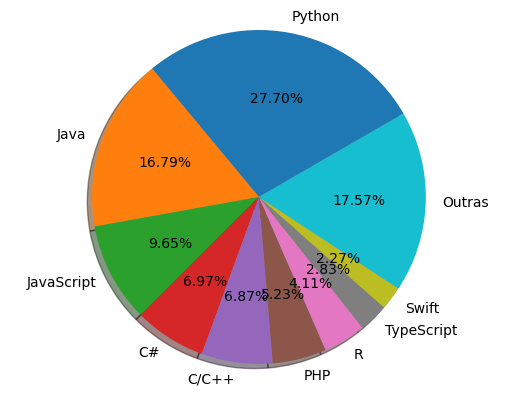
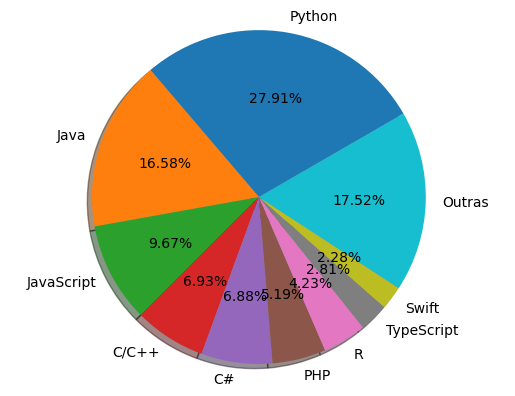
Build site at 2023-03-02 06:00:07 UTC

diff --git a/docs/popularidade/index.html b/docs/popularidade/index.html
@@ -35,7 +35,7 @@
 <meta name="twitter:card" content="summary" />
 <meta property="twitter:title" content="Introdução: python é popular!" />
 <script type="application/ld+json">
-{"@context":"https://schema.org","@type":"WebPage","author":{"@type":"Person","name":"Luiz T. F. Eleno"},"dateModified":"2022-08-02T03:00:03-03:00","description":"Computação Científica em Python - uma disciplina do curso de Engenharia Física da Escola de Engenharia de Lorena da Universidade de São Paulo - EEL USP","headline":"Introdução: python é popular!","url":"https://computeel.org/LOM3260/popularidade/"}</script>
+{"@context":"https://schema.org","@type":"WebPage","author":{"@type":"Person","name":"Luiz T. F. Eleno"},"dateModified":"2023-02-02T03:00:07-03:00","description":"Computação Científica em Python - uma disciplina do curso de Engenharia Física da Escola de Engenharia de Lorena da Universidade de São Paulo - EEL USP","headline":"Introdução: python é popular!","url":"https://computeel.org/LOM3260/popularidade/"}</script>
 <!-- End Jekyll SEO tag -->
 
   
@@ -1415,110 +1415,110 @@
     <tr>
       <td style="text-align: center">1</td>
       <td style="text-align: left">Python</td>
-      <td style="text-align: center">27.7</td>
-      <td style="text-align: center">-0.7</td>
+      <td style="text-align: center">27.91</td>
+      <td style="text-align: center">-0.6</td>
     </tr>
     <tr>
       <td style="text-align: center">2</td>
       <td style="text-align: left">Java</td>
-      <td style="text-align: center">16.79</td>
-      <td style="text-align: center">-1.3</td>
+      <td style="text-align: center">16.58</td>
+      <td style="text-align: center">-1.6</td>
     </tr>
     <tr>
       <td style="text-align: center">3</td>
       <td style="text-align: left">JavaScript</td>
-      <td style="text-align: center">9.65</td>
+      <td style="text-align: center">9.67</td>
       <td style="text-align: center">+0.6</td>
     </tr>
     <tr>
       <td style="text-align: center">4</td>
-      <td style="text-align: left">C#</td>
-      <td style="text-align: center">6.97</td>
+      <td style="text-align: left">C/C++</td>
+      <td style="text-align: center">6.93</td>
       <td style="text-align: center">-0.5</td>
     </tr>
     <tr>
       <td style="text-align: center">5</td>
-      <td style="text-align: left">C/C++</td>
-      <td style="text-align: center">6.87</td>
-      <td style="text-align: center">-0.6</td>
+      <td style="text-align: left">C#</td>
+      <td style="text-align: center">6.88</td>
+      <td style="text-align: center">-0.5</td>
     </tr>
     <tr>
       <td style="text-align: center">6</td>
       <td style="text-align: left">PHP</td>
-      <td style="text-align: center">5.23</td>
-      <td style="text-align: center">-0.8</td>
+      <td style="text-align: center">5.19</td>
+      <td style="text-align: center">-0.6</td>
     </tr>
     <tr>
       <td style="text-align: center">7</td>
       <td style="text-align: left">R</td>
-      <td style="text-align: center">4.11</td>
-      <td style="text-align: center">-0.1</td>
+      <td style="text-align: center">4.23</td>
+      <td style="text-align: center">-0.2</td>
     </tr>
     <tr>
       <td style="text-align: center">8</td>
       <td style="text-align: left">TypeScript</td>
-      <td style="text-align: center">2.83</td>
-      <td style="text-align: center">+0.8</td>
+      <td style="text-align: center">2.81</td>
+      <td style="text-align: center">+0.6</td>
     </tr>
     <tr>
       <td style="text-align: center">9</td>
       <td style="text-align: left">Swift</td>
-      <td style="text-align: center">2.27</td>
-      <td style="text-align: center">+0.3</td>
+      <td style="text-align: center">2.28</td>
+      <td style="text-align: center">+0.2</td>
     </tr>
     <tr>
       <td style="text-align: center">10</td>
       <td style="text-align: left">Objective-C</td>
-      <td style="text-align: center">2.25</td>
-      <td style="text-align: center">-0.1</td>
+      <td style="text-align: center">2.26</td>
+      <td style="text-align: center">+0.0</td>
     </tr>
     <tr>
       <td style="text-align: center">11</td>
-      <td style="text-align: left">Go</td>
-      <td style="text-align: center">1.95</td>
-      <td style="text-align: center">+0.7</td>
+      <td style="text-align: left">Rust</td>
+      <td style="text-align: center">2.03</td>
+      <td style="text-align: center">+1.0</td>
     </tr>
     <tr>
       <td style="text-align: center">12</td>
-      <td style="text-align: left">Rust</td>
-      <td style="text-align: center">1.91</td>
-      <td style="text-align: center">+0.9</td>
+      <td style="text-align: left">Go</td>
+      <td style="text-align: center">1.93</td>
+      <td style="text-align: center">+0.7</td>
     </tr>
     <tr>
       <td style="text-align: center">13</td>
       <td style="text-align: left">Kotlin</td>
-      <td style="text-align: center">1.85</td>
+      <td style="text-align: center">1.82</td>
       <td style="text-align: center">+0.2</td>
     </tr>
     <tr>
       <td style="text-align: center">14</td>
       <td style="text-align: left">Matlab</td>
-      <td style="text-align: center">1.71</td>
-      <td style="text-align: center">-0.1</td>
+      <td style="text-align: center">1.66</td>
+      <td style="text-align: center">-0.3</td>
     </tr>
     <tr>
       <td style="text-align: center">15</td>
       <td style="text-align: left">Ruby</td>
-      <td style="text-align: center">1.11</td>
+      <td style="text-align: center">1.1</td>
       <td style="text-align: center">+0.3</td>
     </tr>
     <tr>
       <td style="text-align: center">16</td>
-      <td style="text-align: left">VBA</td>
-      <td style="text-align: center">1.03</td>
-      <td style="text-align: center">+0.0</td>
+      <td style="text-align: left">Ada</td>
+      <td style="text-align: center">1.01</td>
+      <td style="text-align: center">+0.4</td>
     </tr>
     <tr>
       <td style="text-align: center">17</td>
-      <td style="text-align: left">Ada</td>
-      <td style="text-align: center">0.94</td>
-      <td style="text-align: center">+0.3</td>
+      <td style="text-align: left">VBA</td>
+      <td style="text-align: center">1.01</td>
+      <td style="text-align: center">+0.1</td>
     </tr>
     <tr>
       <td style="text-align: center">18</td>
       <td style="text-align: left">Dart</td>
-      <td style="text-align: center">0.84</td>
-      <td style="text-align: center">+0.4</td>
+      <td style="text-align: center">0.81</td>
+      <td style="text-align: center">+0.3</td>
     </tr>
     <tr>
       <td style="text-align: center">19</td>
@@ -1529,14 +1529,14 @@
     <tr>
       <td style="text-align: center">20</td>
       <td style="text-align: left">Lua</td>
-      <td style="text-align: center">0.54</td>
+      <td style="text-align: center">0.58</td>
       <td style="text-align: center">+0.2</td>
     </tr>
     <tr>
       <td style="text-align: center">21</td>
       <td style="text-align: left">Visual Basic</td>
       <td style="text-align: center">0.53</td>
-      <td style="text-align: center">-0.1</td>
+      <td style="text-align: center">-0.0</td>
     </tr>
     <tr>
       <td style="text-align: center">22</td>
@@ -1547,43 +1547,43 @@
     <tr>
       <td style="text-align: center">23</td>
       <td style="text-align: left">Julia</td>
-      <td style="text-align: center">0.35</td>
+      <td style="text-align: center">0.36</td>
       <td style="text-align: center">+0.1</td>
     </tr>
     <tr>
       <td style="text-align: center">24</td>
       <td style="text-align: left">Groovy</td>
-      <td style="text-align: center">0.34</td>
+      <td style="text-align: center">0.33</td>
       <td style="text-align: center">-0.0</td>
     </tr>
     <tr>
       <td style="text-align: center">25</td>
-      <td style="text-align: left">Haskell</td>
-      <td style="text-align: center">0.33</td>
-      <td style="text-align: center">+0.1</td>
+      <td style="text-align: left">Perl</td>
+      <td style="text-align: center">0.3</td>
+      <td style="text-align: center">+0.0</td>
     </tr>
     <tr>
       <td style="text-align: center">26</td>
-      <td style="text-align: left">Perl</td>
-      <td style="text-align: center">0.33</td>
+      <td style="text-align: left">Haskell</td>
+      <td style="text-align: center">0.27</td>
       <td style="text-align: center">+0.0</td>
     </tr>
     <tr>
       <td style="text-align: center">27</td>
       <td style="text-align: left">Cobol</td>
-      <td style="text-align: center">0.31</td>
-      <td style="text-align: center">+0.1</td>
+      <td style="text-align: center">0.25</td>
+      <td style="text-align: center">+0.0</td>
     </tr>
     <tr>
       <td style="text-align: center">28</td>
       <td style="text-align: left">Delphi/Pascal</td>
-      <td style="text-align: center">0.11</td>
+      <td style="text-align: center">0.13</td>
       <td style="text-align: center">-0.0</td>
     </tr>
   </tbody>
 </table>
 
-<p class="small"><strong><em>Mundialmente em fevereiro de 2023, comparado a um ano antes</em></strong></p>
+<p class="small"><strong><em>Mundialmente em março de 2023, comparado a um ano antes</em></strong></p>
 
 
   
@@ -1591,7 +1591,7 @@
 
 <hr>
 <p class="small">
-  <i> Página atualizada em 02/02/23</i>
+  <i> Página atualizada em 02/03/23</i>
 </p>
 
 

diff --git a/docs/index.html b/docs/index.html
@@ -1436,7 +1436,7 @@
 
 </div>
 
-<p class="small"><strong><em>Última atualização: 02/02/2023 03:00:03</em></strong></p>
+<p class="small"><strong><em>Última atualização: 02/03/2023 03:00:04</em></strong></p>
 
 
 

diff --git a/material/sobre/01-introdução.md b/material/sobre/01-introdução.md
@@ -4,7 +4,7 @@ parent: sobre
 nav_order: 0
 tags: [introdução, pypl, python, popularity]
 permalink: /popularidade/
-timestamp: '02/02/23'
+timestamp: '02/03/23'
 ---
 
 Python é a linguagem mais popular e a que mais cresce mundialmente
@@ -18,34 +18,34 @@ O **índice PYPL** (*PopularitY of Programming Language*) é obtido analisando a
 
 | Posição	| Linguagem |	Fatia (%)	| Tendência (%) |
 |:-------:|:--------- |:-----:|:---------:|
-| 1 | Python |          27.7  | -0.7  |
-| 2 | Java |          16.79  | -1.3  |
-| 3 | JavaScript |          9.65  | +0.6  |
-| 4 | C# |          6.97  | -0.5  |
-| 5 | C/C++ |          6.87  | -0.6  |
-| 6 | PHP |          5.23  | -0.8  |
-| 7 | R |          4.11  | -0.1  |
-| 8 | TypeScript |          2.83  | +0.8  |
-| 9 | Swift |          2.27  | +0.3  |
-| 10 | Objective-C |          2.25  | -0.1  |
-| 11 | Go |          1.95  | +0.7  |
-| 12 | Rust |          1.91  | +0.9  |
-| 13 | Kotlin |          1.85  | +0.2  |
-| 14 | Matlab |          1.71  | -0.1  |
-| 15 | Ruby |          1.11  | +0.3  |
-| 16 | VBA |          1.03  | +0.0  |
-| 17 | Ada |          0.94  | +0.3  |
-| 18 | Dart |          0.84  | +0.4  |
+| 1 | Python |          27.91  | -0.6  |
+| 2 | Java |          16.58  | -1.6  |
+| 3 | JavaScript |          9.67  | +0.6  |
+| 4 | C/C++ |          6.93  | -0.5  |
+| 5 | C# |          6.88  | -0.5  |
+| 6 | PHP |          5.19  | -0.6  |
+| 7 | R |          4.23  | -0.2  |
+| 8 | TypeScript |          2.81  | +0.6  |
+| 9 | Swift |          2.28  | +0.2  |
+| 10 | Objective-C |          2.26  | +0.0  |
+| 11 | Rust |          2.03  | +1.0  |
+| 12 | Go |          1.93  | +0.7  |
+| 13 | Kotlin |          1.82  | +0.2  |
+| 14 | Matlab |          1.66  | -0.3  |
+| 15 | Ruby |          1.1  | +0.3  |
+| 16 | Ada |          1.01  | +0.4  |
+| 17 | VBA |          1.01  | +0.1  |
+| 18 | Dart |          0.81  | +0.3  |
 | 19 | Scala |          0.62  | +0.0  |
-| 20 | Lua |          0.54  | +0.2  |
-| 21 | Visual Basic |          0.53  | -0.1  |
+| 20 | Lua |          0.58  | +0.2  |
+| 21 | Visual Basic |          0.53  | -0.0  |
 | 22 | Abap |          0.52  | +0.1  |
-| 23 | Julia |          0.35  | +0.1  |
-| 24 | Groovy |          0.34  | -0.0  |
-| 25 | Haskell |          0.33  | +0.1  |
-| 26 | Perl |          0.33  | +0.0  |
-| 27 | Cobol |          0.31  | +0.1  |
-| 28 | Delphi/Pascal |          0.11  | -0.0  |
+| 23 | Julia |          0.36  | +0.1  |
+| 24 | Groovy |          0.33  | -0.0  |
+| 25 | Perl |          0.3  | +0.0  |
+| 26 | Haskell |          0.27  | +0.0  |
+| 27 | Cobol |          0.25  | +0.0  |
+| 28 | Delphi/Pascal |          0.13  | -0.0  |
 
-***Mundialmente em fevereiro de 2023, comparado a um ano antes***
+***Mundialmente em março de 2023, comparado a um ano antes***
 {: .small}
